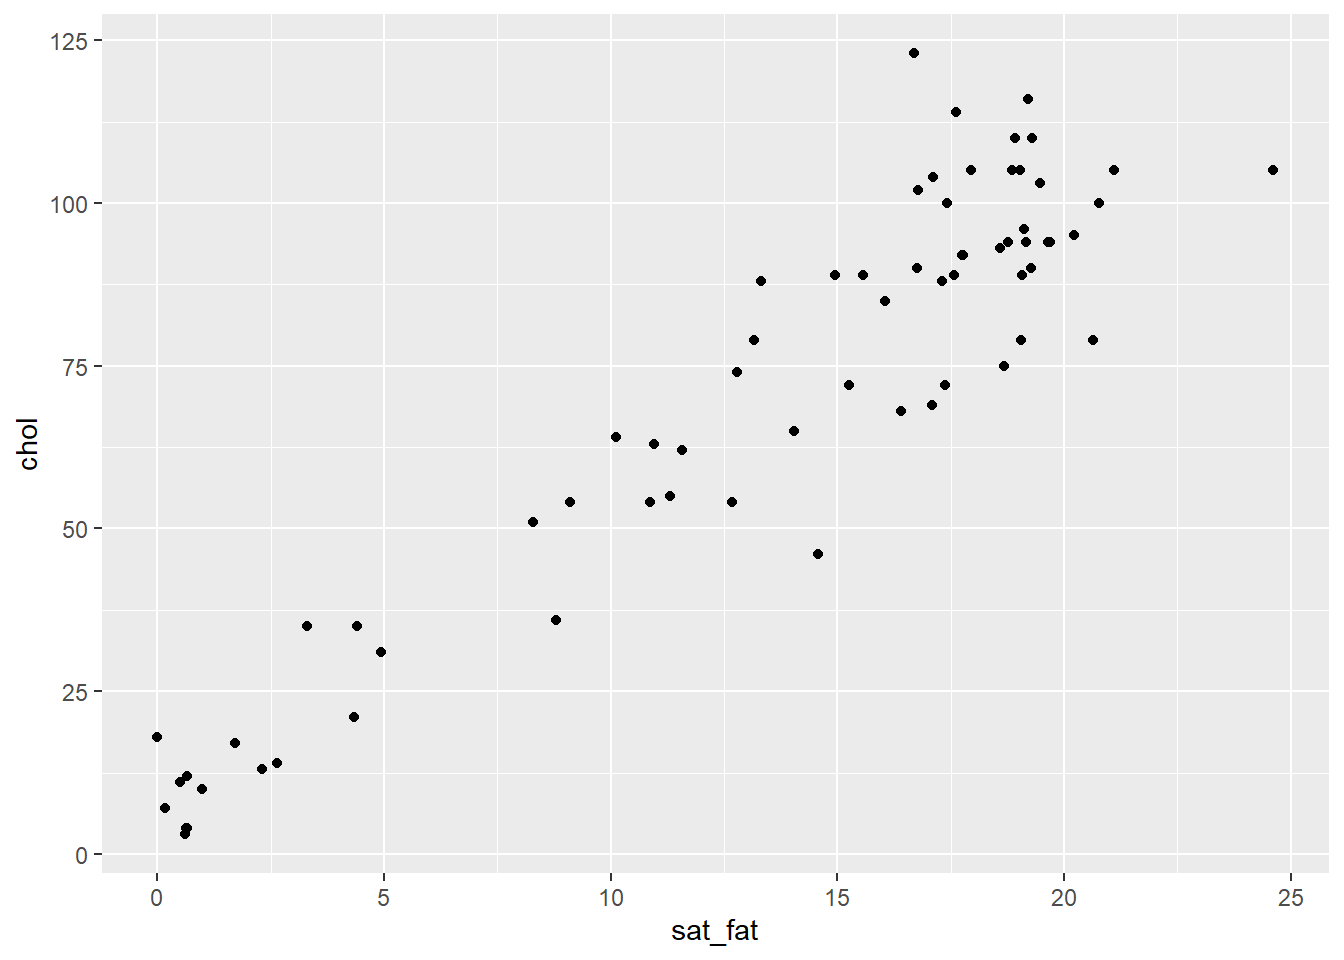
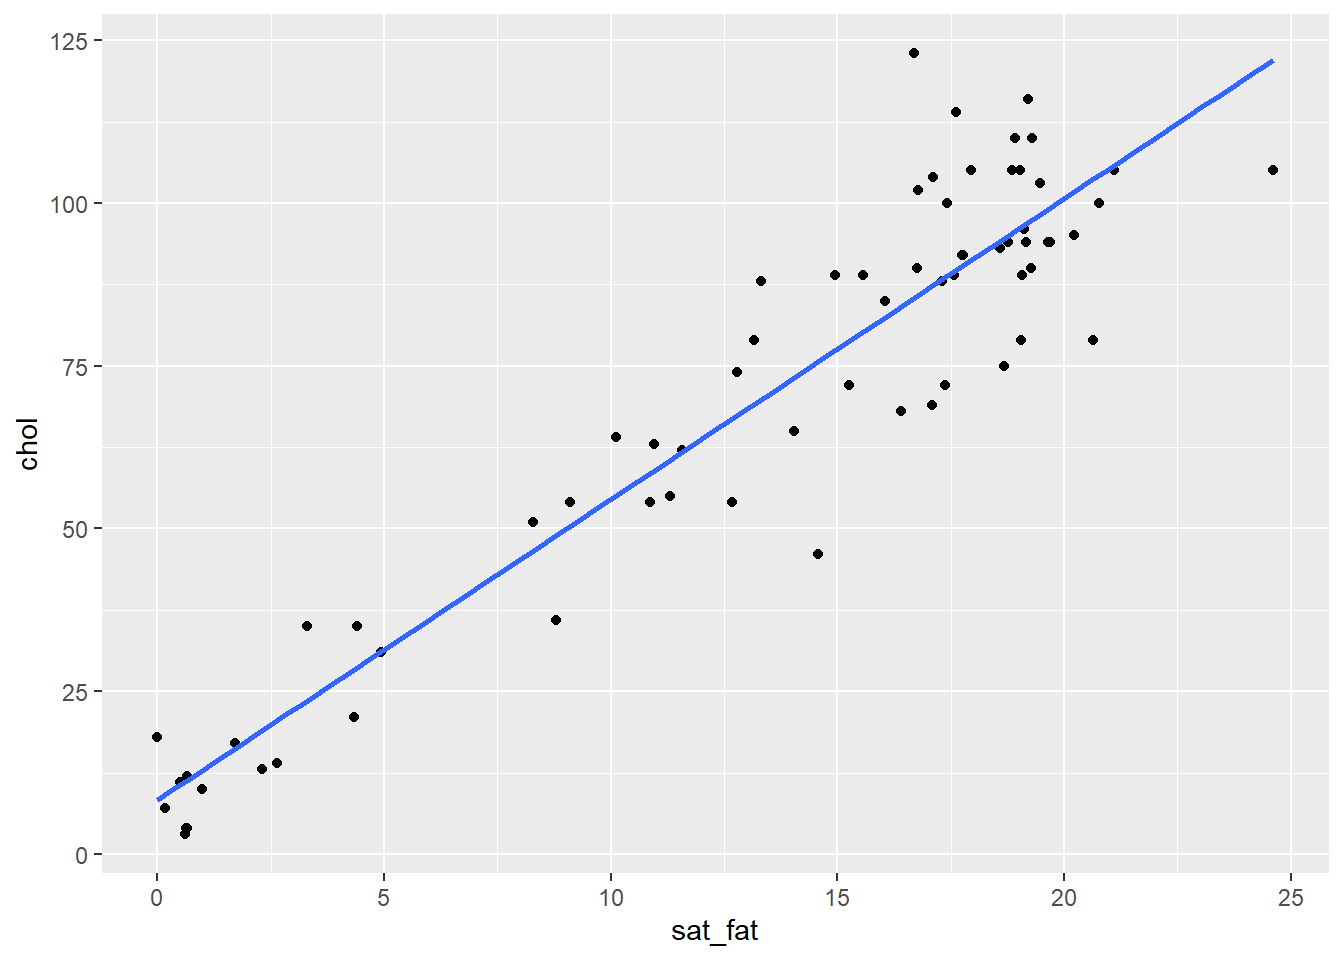
non para

diff --git a/_book/correlation.html b/_book/correlation.html
@@ -434,9 +434,9 @@ jays &lt;-<span class="st"> </span><span class="kw">read_csv</span>(<span class=
 <h2><span class="header-section-number">11.8</span> Non-parametric Correlations</h2>
 <p>examples....</p>
 <p>when I can be bothered, edit this code chunk down into words + code</p>
-<div class="sourceCode"><pre class="sourceCode r"><code class="sourceCode r"><span class="co"># Example 1.</span>
-
-<span class="kw">library</span>(tidyverse)
+<p>When at least on of our variables are not normal, then we need to consider alternative approaches to the Pearson correlation for assessing correlations.</p>
+<p>Let's take this example, where we are interested in seeing if there's an association between saturated fat and cholesterol levels across a bunch of different cheeses:</p>
+<div class="sourceCode"><pre class="sourceCode r"><code class="sourceCode r"><span class="kw">library</span>(tidyverse)
 
 cheese &lt;-<span class="st"> </span><span class="kw">read_csv</span>(<span class="st">&quot;data/cheese.csv&quot;</span>)</code></pre></div>
 <pre><code>## Parsed with column specification:
@@ -451,8 +451,6 @@ cheese &lt;-<span class="st"> </span><span class="kw">read_csv</span>(<span clas
 ##   fiber = col_double(),
 ##   kcal = col_integer()
 ## )</code></pre>
-<div class="sourceCode"><pre class="sourceCode r"><code class="sourceCode r"><span class="kw">nrow</span>(cheese)</code></pre></div>
-<pre><code>## [1] 73</code></pre>
 <div class="sourceCode"><pre class="sourceCode r"><code class="sourceCode r"><span class="kw">head</span>(cheese)</code></pre></div>
 <pre><code>## # A tibble: 6 x 9
 ##   type      sat_fat polysat_fat monosat_fat protein  carb  chol fiber  kcal
@@ -464,38 +462,47 @@ cheese &lt;-<span class="st"> </span><span class="kw">read_csv</span>(<span clas
 ## 5 caraway      18.6       0.83         8.28    25.2  3.06    93     0   376
 ## 6 cheddar      21.1       0.942        9.39    24.9  1.28   105     0   403</code></pre>
 <div class="sourceCode"><pre class="sourceCode r"><code class="sourceCode r"><span class="co"># let&#39;s make a scatterplot of saturated fat against cholesterol</span>
-<span class="kw">ggplot</span>(cheese, <span class="kw">aes</span>(<span class="dt">x =</span> sat_fat, <span class="dt">y =</span> chol)) +<span class="st"> </span><span class="kw">geom_point</span>()</code></pre></div>
+<span class="kw">ggplot</span>(cheese, <span class="kw">aes</span>(<span class="dt">x =</span> sat_fat, <span class="dt">y =</span> chol)) +<span class="st"> </span><span class="kw">geom_point</span>() +
+<span class="st">  </span><span class="kw">stat_smooth</span>(<span class="dt">method=</span><span class="st">&quot;lm&quot;</span>,<span class="dt">se=</span>F)</code></pre></div>
 <p><img src="_main_files/figure-html/unnamed-chunk-28-1.png" width="672" /></p>
-<div class="sourceCode"><pre class="sourceCode r"><code class="sourceCode r"><span class="co"># looks like there&#39;s a pretty obvious relationship.</span>
-
-<span class="co"># let&#39;s do our checks for normality...</span>
-
-<span class="kw">shapiro.test</span>(cheese$sat_fat)  <span class="co"># P &lt; 0.05, therefore can reject null that data is normal</span></code></pre></div>
+<p>It looks like there is a pretty obvious relationship, but let's check the normality of each variable before progressing. Firstly the Shapiro-Wilk tests suggest that our data do not come from a normal distribution:</p>
+<div class="sourceCode"><pre class="sourceCode r"><code class="sourceCode r"><span class="kw">shapiro.test</span>(cheese$sat_fat)  <span class="co"># P &lt; 0.05, therefore data may not be normal</span></code></pre></div>
 <pre><code>## 
 ##  Shapiro-Wilk normality test
 ## 
 ## data:  cheese$sat_fat
 ## W = 0.85494, p-value = 6.28e-07</code></pre>
-<div class="sourceCode"><pre class="sourceCode r"><code class="sourceCode r"><span class="kw">shapiro.test</span>(cheese$chol)  <span class="co"># P &lt; 0.05, therefore cannot reject null that data is normal</span></code></pre></div>
+<div class="sourceCode"><pre class="sourceCode r"><code class="sourceCode r"><span class="kw">shapiro.test</span>(cheese$chol)  <span class="co"># P &lt; 0.05,  therefore data may not be normal</span></code></pre></div>
 <pre><code>## 
 ##  Shapiro-Wilk normality test
 ## 
 ## data:  cheese$chol
 ## W = 0.90099, p-value = 2.985e-05</code></pre>
+<p>Secondly, we have quite dramatic deviation from the straight line of our datapoints in our QQ plots. This indicates that our dat are likley skewed.</p>
 <div class="sourceCode"><pre class="sourceCode r"><code class="sourceCode r"><span class="kw">qqnorm</span>(cheese$sat_fat)
 <span class="kw">qqline</span>(cheese$sat_fat, <span class="dt">col =</span> <span class="st">&quot;steelblue&quot;</span>, <span class="dt">lwd =</span> <span class="dv">2</span>)</code></pre></div>
-<p><img src="_main_files/figure-html/unnamed-chunk-28-2.png" width="672" /></p>
+<p><img src="_main_files/figure-html/unnamed-chunk-30-1.png" width="672" /></p>
 <div class="sourceCode"><pre class="sourceCode r"><code class="sourceCode r"><span class="kw">qqnorm</span>(cheese$chol)
 <span class="kw">qqline</span>(cheese$chol, <span class="dt">col =</span> <span class="st">&quot;steelblue&quot;</span>, <span class="dt">lwd =</span> <span class="dv">2</span>)</code></pre></div>
-<p><img src="_main_files/figure-html/unnamed-chunk-28-3.png" width="672" /></p>
-<div class="sourceCode"><pre class="sourceCode r"><code class="sourceCode r">## OK, so doing a Pearson correlation is not best...
+<p><img src="_main_files/figure-html/unnamed-chunk-30-2.png" width="672" /></p>
+<p>We could be thorough and check this by plotting histograms of our data:</p>
+<div class="sourceCode"><pre class="sourceCode r"><code class="sourceCode r"><span class="kw">library</span>(gridExtra)</code></pre></div>
+<pre><code>## 
+## Attaching package: &#39;gridExtra&#39;</code></pre>
+<pre><code>## The following object is masked from &#39;package:dplyr&#39;:
+## 
+##     combine</code></pre>
+<div class="sourceCode"><pre class="sourceCode r"><code class="sourceCode r">p1 &lt;-<span class="st"> </span><span class="kw">ggplot</span>(cheese, <span class="kw">aes</span>(<span class="dt">x=</span>sat_fat)) +<span class="st"> </span><span class="kw">geom_histogram</span>(<span class="dt">color=</span><span class="st">&quot;black&quot;</span>, <span class="dt">fill=</span><span class="st">&quot;lightseagreen&quot;</span>)
+p2 &lt;-<span class="st"> </span><span class="kw">ggplot</span>(cheese, <span class="kw">aes</span>(<span class="dt">x=</span>chol)) +<span class="st"> </span><span class="kw">geom_histogram</span>(<span class="dt">color=</span><span class="st">&quot;black&quot;</span>, <span class="dt">fill=</span><span class="st">&quot;lightseagreen&quot;</span>)
 
-
-<span class="co"># Option 1.  Spearman&#39;s Rank Test</span>
-
-<span class="kw">ggplot</span>(cheese, <span class="kw">aes</span>(<span class="dt">x =</span> sat_fat, <span class="dt">y =</span> chol)) +<span class="st"> </span><span class="kw">geom_point</span>()</code></pre></div>
-<p><img src="_main_files/figure-html/unnamed-chunk-28-4.png" width="672" /></p>
-<div class="sourceCode"><pre class="sourceCode r"><code class="sourceCode r"><span class="kw">cor</span>(cheese$sat_fat, cheese$chol, <span class="dt">method =</span> <span class="st">&quot;spearman&quot;</span>)      <span class="co"># rho = 0.87</span></code></pre></div>
+<span class="kw">grid.arrange</span>(p1,p2,<span class="dt">nrow=</span><span class="dv">1</span>)</code></pre></div>
+<pre><code>## `stat_bin()` using `bins = 30`. Pick better value with `binwidth`.</code></pre>
+<pre><code>## `stat_bin()` using `bins = 30`. Pick better value with `binwidth`.</code></pre>
+<p><img src="_main_files/figure-html/unnamed-chunk-31-1.png" width="672" /></p>
+<p>Because our data do not appear to be normal, we cannot do a Pearson correlation coefficient. We should instead use a non-parametric correlation method. There are several of these to choose from. We don't plan to go into the details here of how these methods determine their correlation coefficients or conduct significance test. In brief, these methods generally rank order the datapoints along the <code>x</code> and <code>y</code> axes and then determine how ordered these ranks are with respect to each other.</p>
+<p>Probably the most commonly used non-parametric correlation test is called the Spearman Rank Correlation test.</p>
+<p>To run this, we can use <code>cor()</code> to get the correlation or <code>cor.test()</code> to run the signficance test in the same way we did the Pearson test. However, the difference here is that we specify <code>method=&quot;spearman&quot;</code> at the end.</p>
+<div class="sourceCode"><pre class="sourceCode r"><code class="sourceCode r"><span class="kw">cor</span>(cheese$sat_fat, cheese$chol, <span class="dt">method =</span> <span class="st">&quot;spearman&quot;</span>)      </code></pre></div>
 <pre><code>## [1] 0.8677042</code></pre>
 <div class="sourceCode"><pre class="sourceCode r"><code class="sourceCode r"><span class="kw">cor.test</span>(cheese$sat_fat, cheese$chol, <span class="dt">method =</span> <span class="st">&quot;spearman&quot;</span>) </code></pre></div>
 <pre><code>## Warning in cor.test.default(cheese$sat_fat, cheese$chol, method = &quot;spearman&quot;):
@@ -509,13 +516,10 @@ cheese &lt;-<span class="st"> </span><span class="kw">read_csv</span>(<span clas
 ## sample estimates:
 ##       rho 
 ## 0.8677042</code></pre>
-<div class="sourceCode"><pre class="sourceCode r"><code class="sourceCode r"><span class="co"># p&lt;.05 therefore reject null that rho = 0</span>
-<span class="co"># don&#39;t worry about the warning message.</span>
-
-
-<span class="co"># you can do 1-tailed tests as with Pearson</span>
-
-<span class="kw">cor.test</span>(cheese$sat_fat, cheese$chol, <span class="dt">method =</span> <span class="st">&quot;spearman&quot;</span>, <span class="dt">alternative =</span> <span class="st">&quot;greater&quot;</span>) </code></pre></div>
+<p>The correlation coefficient here is 0.87 and is termed <code>rho</code> instead of <code>r</code>. With the significance test, you get a test-statistic <code>S</code> which relates to how well ordered the ranked data are. Also provided is a p-value. As with the Pearson, the default is a 2-tailed test, testing whether the obsvered correlation could have come from a population with a correlation of 0. If the p-value is below 0.05 (using alpha = 0.05 as our criterion), then that is reasonable evidence that there is a significant correlation.</p>
+<p>You may also notice with Spearman Rank correlations that you are forever getting warnings about computing p-values with ties. Don't worry at all about this - although this is an issue with the test and how it calculates the p-value, it isn't of any real practical concern.</p>
+<p>If you were interested in conducting a one-tailed correlation test, you could do that in the same way as you did for the Pearson. For instance, if you predicted that cholesterol and saturated fat would have a positive correlation, you could do the following to do a one-tailed test:</p>
+<div class="sourceCode"><pre class="sourceCode r"><code class="sourceCode r"><span class="kw">cor.test</span>(cheese$sat_fat, cheese$chol, <span class="dt">method =</span> <span class="st">&quot;spearman&quot;</span>, <span class="dt">alternative =</span> <span class="st">&quot;greater&quot;</span>) </code></pre></div>
 <pre><code>## Warning in cor.test.default(cheese$sat_fat, cheese$chol, method = &quot;spearman&quot;, :
 ## Cannot compute exact p-value with ties</code></pre>
 <pre><code>## 
@@ -527,12 +531,9 @@ cheese &lt;-<span class="st"> </span><span class="kw">read_csv</span>(<span clas
 ## sample estimates:
 ##       rho 
 ## 0.8677042</code></pre>
-<div class="sourceCode"><pre class="sourceCode r"><code class="sourceCode r">## Option 2 - other types...
-
-## There are other types of non-parametric correlation...
-<span class="co"># Kendall&#39;s tau-b is commonly used also.</span>
-
-<span class="kw">cor.test</span>(cheese$sat_fat, cheese$chol, <span class="dt">method =</span> <span class="st">&quot;kendall&quot;</span>) </code></pre></div>
+<p>You may also notice that the output of the Spearman Rank test does not give confidence intervals for the value of rho. This is unfortunate and is one of the drawbacks of doing a non-parametric correlation.</p>
+<p>Finally, there are several other types of non-parametric correlations you could choose from if you didn't want to do a Spearman Rank correlation. We personally recommend using a method called <code>Kendalls Tau B</code> correlation, which can be done like this:</p>
+<div class="sourceCode"><pre class="sourceCode r"><code class="sourceCode r"><span class="kw">cor.test</span>(cheese$sat_fat, cheese$chol, <span class="dt">method =</span> <span class="st">&quot;kendall&quot;</span>) </code></pre></div>
 <pre><code>## 
 ##  Kendall&#39;s rank correlation tau
 ## 
@@ -542,6 +543,8 @@ cheese &lt;-<span class="st"> </span><span class="kw">read_csv</span>(<span clas
 ## sample estimates:
 ##       tau 
 ## 0.7102531</code></pre>
+<p>This output gives you a <code>tau</code> value which is the correlation coefficient, and a p-value which you can interpret in the same way as the other tests.</p>
+<p><strong>Ranked Data</strong></p>
 <p>If at least one of your variables of your data are rank (ordinal) data, then you should use non-parametric correlations.</p>
 <p>In the following example, the data show the dominance rank, age, body size and testosterone levels for a group of 18 animals. Lower numbers of the ranks, indicate a higher ranking animal. An animal with rank 1 means that it is the most dominant individual.</p>
 <p>Perhaps with such data you may be interested in seeing if there was an association between dominance rank and testosterone levels. Because your dominance rank measure is ordinal (a rank), then you should pick a non-parametric correlation.</p>
@@ -568,7 +571,7 @@ cheese &lt;-<span class="st"> </span><span class="kw">read_csv</span>(<span clas
 <span class="st">  </span><span class="kw">stat_smooth</span>(<span class="dt">method =</span> <span class="st">&quot;lm&quot;</span>, <span class="dt">se=</span>F) +
 <span class="st">  </span><span class="kw">xlab</span>(<span class="st">&quot;Dominance Rank&quot;</span>) +
 <span class="st">  </span><span class="kw">ylab</span>(<span class="st">&quot;Testosterone Level&quot;</span>) </code></pre></div>
-<p><img src="_main_files/figure-html/unnamed-chunk-29-1.png" width="672" /></p>
+<p><img src="_main_files/figure-html/unnamed-chunk-35-1.png" width="672" /></p>
 <div class="sourceCode"><pre class="sourceCode r"><code class="sourceCode r"><span class="kw">cor</span>(test$drank, test$testosterone, <span class="dt">method =</span> <span class="st">&quot;spearman&quot;</span>) <span class="co"># rho = -0.91</span></code></pre></div>
 <pre><code>## [1] -0.9083378</code></pre>
 <p>If you had the <em>a priori</em> prediction, that more dominant animals would have higher testosterone, then you could do a one-tailed test. This would mean that you expect there to be a negative correlation - as the rank number gets higher, the levels of testosterone would fall. In this case, you'd use <code>alternative = &quot;less&quot;</code>.</p>
